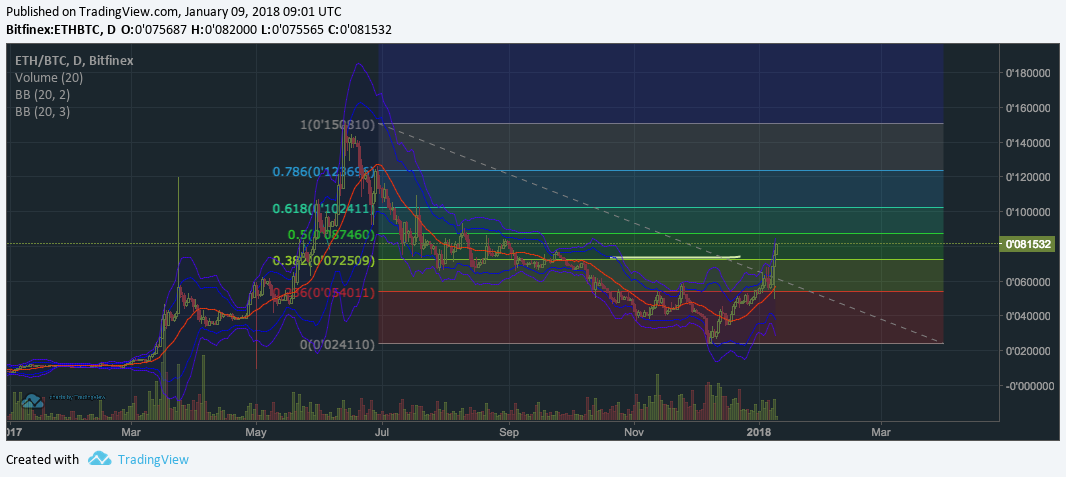
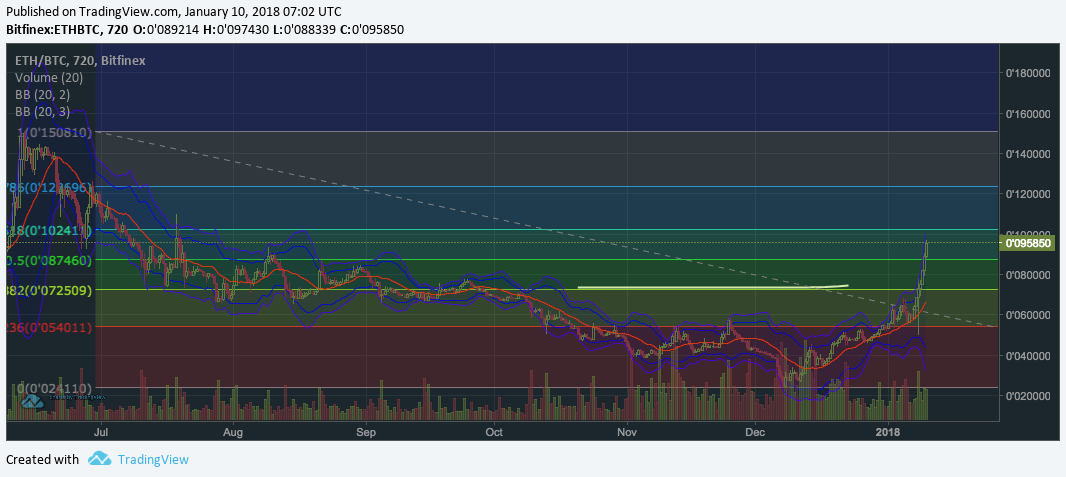
fibs

diff --git a/_fibs/daily.md b/_fibs/daily.md
@@ -1,7 +1,7 @@
 ---
 published: true
 date: 2017-12-27 10:36:00 +0100
-update: 2018-01-09 10:08:00 +0100
+update: 2018-01-10 10:01:00 +0100
 
 layout: fibs
 title: "Fib Levels for Crypto Markets"
@@ -17,17 +17,18 @@ name: "daily/"
 image: ["/features/fibs.jpeg"]
 
 dollars:
-- { market: "BTCUSD", chart: "/fibs/btcusd.png", comment: "The bounce from the MA on the daily and wick to the .382 fib look convincing. It needs some time, bbands are still not pointing anywhere on the 1D (on 12H they go up) but this could be the end of the correction." }
-- { market: "ETHUSD", chart: "/fibs/ethusd.png", comment: "As yesterday, ETH is the place to be today. The surge is too steep though, even if the next fib is around 1460 the trend could bounce down from the bband if it keeps going this fast." }
-- { market: "NEOUSD", chart: "/fibs/neousd.png", comment: "The daily candle on NEOUSD stopped pretty much on the fib around $124. Looking at the bbands it could carry on to around $140 but it would need more volume. If there's a local top here it would be a lower high relatively to the bbands and a sign to get out. " }
+- { market: "BTCUSD", chart: "/fibs/btcusd.png", comment: "Bitcoin broke down below the MA and keeps dumping. If there's not a bounce between 12.7k and 12.9k, 10k will be a real possibility." }
+- { market: "XRPUSD", chart: "/fibs/xrpusd.png", comment: "So the 3-something USD was the top for real. The 1.7 USD level doesn't look like holding, next potential bounce level would be at around 1.25 USD. Looks like this time the pumpcoin profits didn't flow to BTC though." }
+- { market: "ETHUSD", chart: "/fibs/ethusd.png", comment: "Despite all the bullish fundamentals ETH actually joined the blood on the streets today: what looked like a bull flag below a fib resistance broke down to previous breakout level around 1240 USD. There has been a good bounce though, and if the daily closes green the bias remains positive." }
+- { market: "IOTUSD", chart: "/fibs/iotusd.png", comment: "Consolidation broke down, although not too dramatically. " }
 ratios:
-- { market: "ETHBTC", chart: "/fibs/ethbtc.png", comment: "Yesterday's action was a convincing break up through the resistance. Next potential stop is at .087, after that .1 BTC." }
+- { market: "ETHBTC", chart: "/fibs/ethbtc.png", comment: "Look at the bands! Rise to .1 BTC in one day yesterday was too much too fast. Even a dip to 0.08 and some consolidation would not be a place to panic." }
 ---
 
 
 > Relevant news for today
 
-* Two of the [new BTC ETF proposals were withdrawn](https://www.reddit.com/r/BitcoinMarkets/comments/7ovyjx/daily_discussion_monday_january_08_2018/dse67db/?context=3)
-* Coinmarketcap [removed Korean exchanges](https://www.reddit.com/r/BitcoinMarkets/comments/7p1mei/the_crypto_market_just_dropped_on_one_data/) from their scripts
-* Ethereum [gets a new scaling solution](https://twitter.com/ethereum_alex/status/950405374099603461)
-* [Binance re-enabled user signups](https://support.binance.com/hc/en-us/articles/115003834812-Binance-Re-opens-Limited-User-Registrations-and-Adjusts-Referral-Program-Terms) - [signup here](https://www.binance.com/?ref=15980293)
+* [5 alarming reasons Ripple might not be what you think](https://hackernoon.com/4-alarming-reasons-ripple-might-not-be-what-you-think-9debc3c86985) - for one, the coin does not have the same relationship to the Ripple company as for instance ETH to Ethereum.
+* [Block explorer declares BTC dead](https://blockexplorer.com/news/blockexplorer-support-bitcoin-cash-bitcoin-legacy/) and moves to call BTC "Bitcoin Legacy" and BCH "Bitcoin"
+* **[Bitfury de-anonymizes millions of bitcoin addresses](http://www.trustnodes.com/2018/01/09/bitfury-de-anonymises-millions-bitcoin-transactions-addresses)** - "It’s unclear whether that suggests they are working with law enforcement and if they are, which law enforcement that is. Two of the paper’s authors were funded by Bitfury while a third was funded by the Russian Science Foundation." ... "Crude ways around it are obfuscation methods whereby one makes a number of transactions for the sole purpose of de-linking the original identity to a specific address. In bitcoin, however, that is now very expensive, if at all possible, due to a very limited 1MB of data, which Bitfury campaigned to maintain perhaps in aid of their surveillance work." ... "Which spurred work on privacy for ethereum, while for bitcoin there hasn’t really been much movement with the project feeling stale at the protocol level."
+* [Update of the Electrum vulnerability](https://github.com/spesmilo/electrum-docs/blob/master/cve.rst) from its dev
